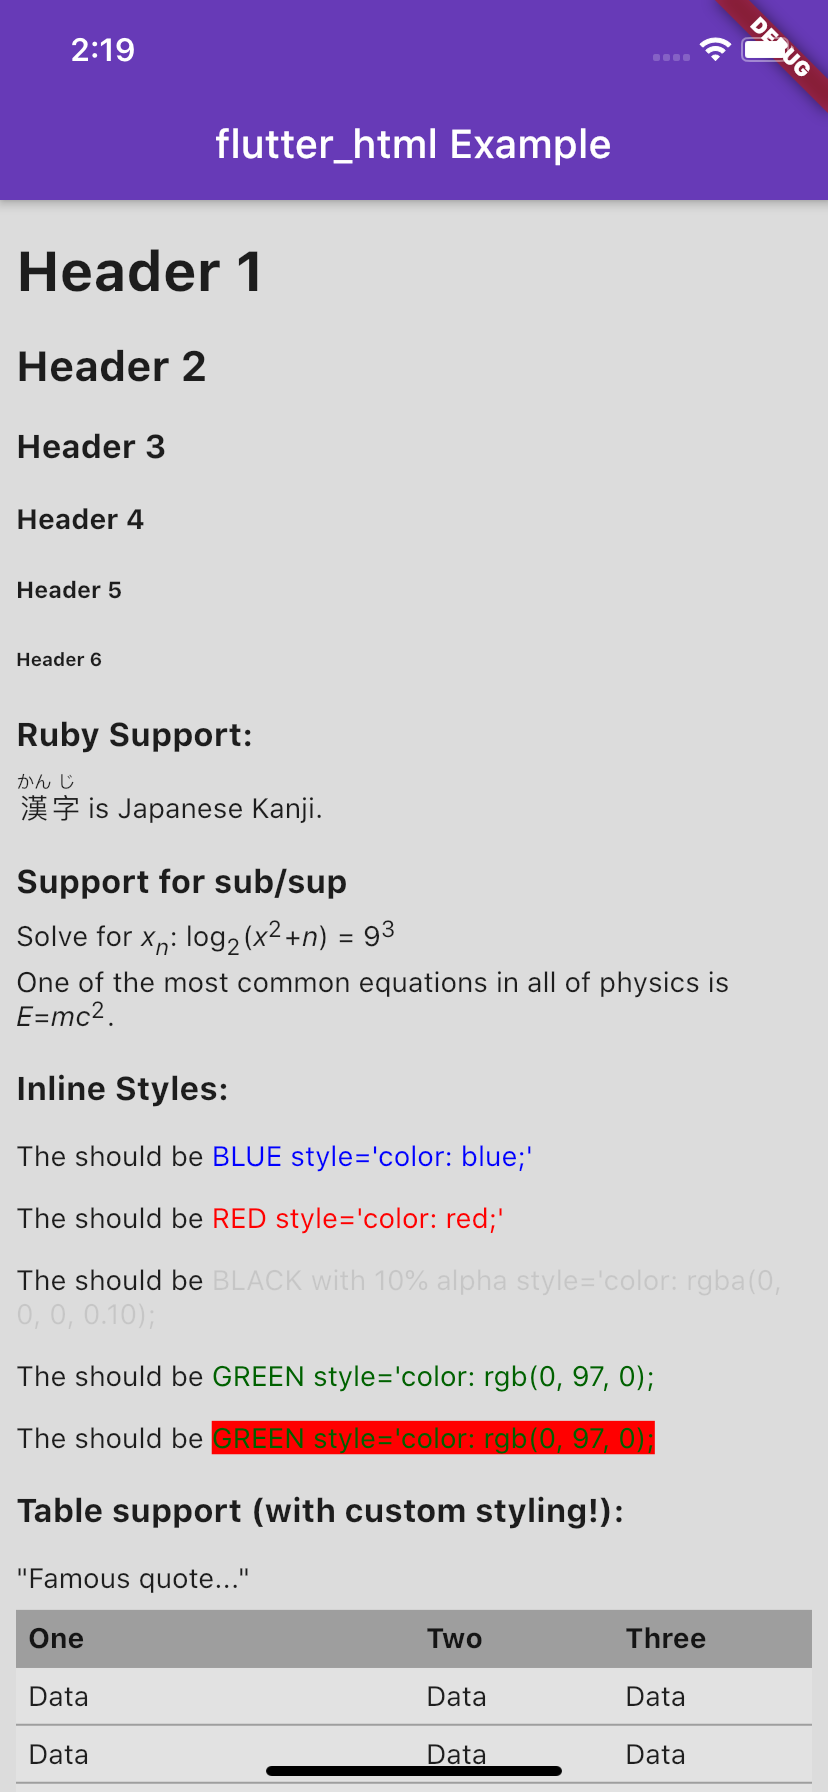
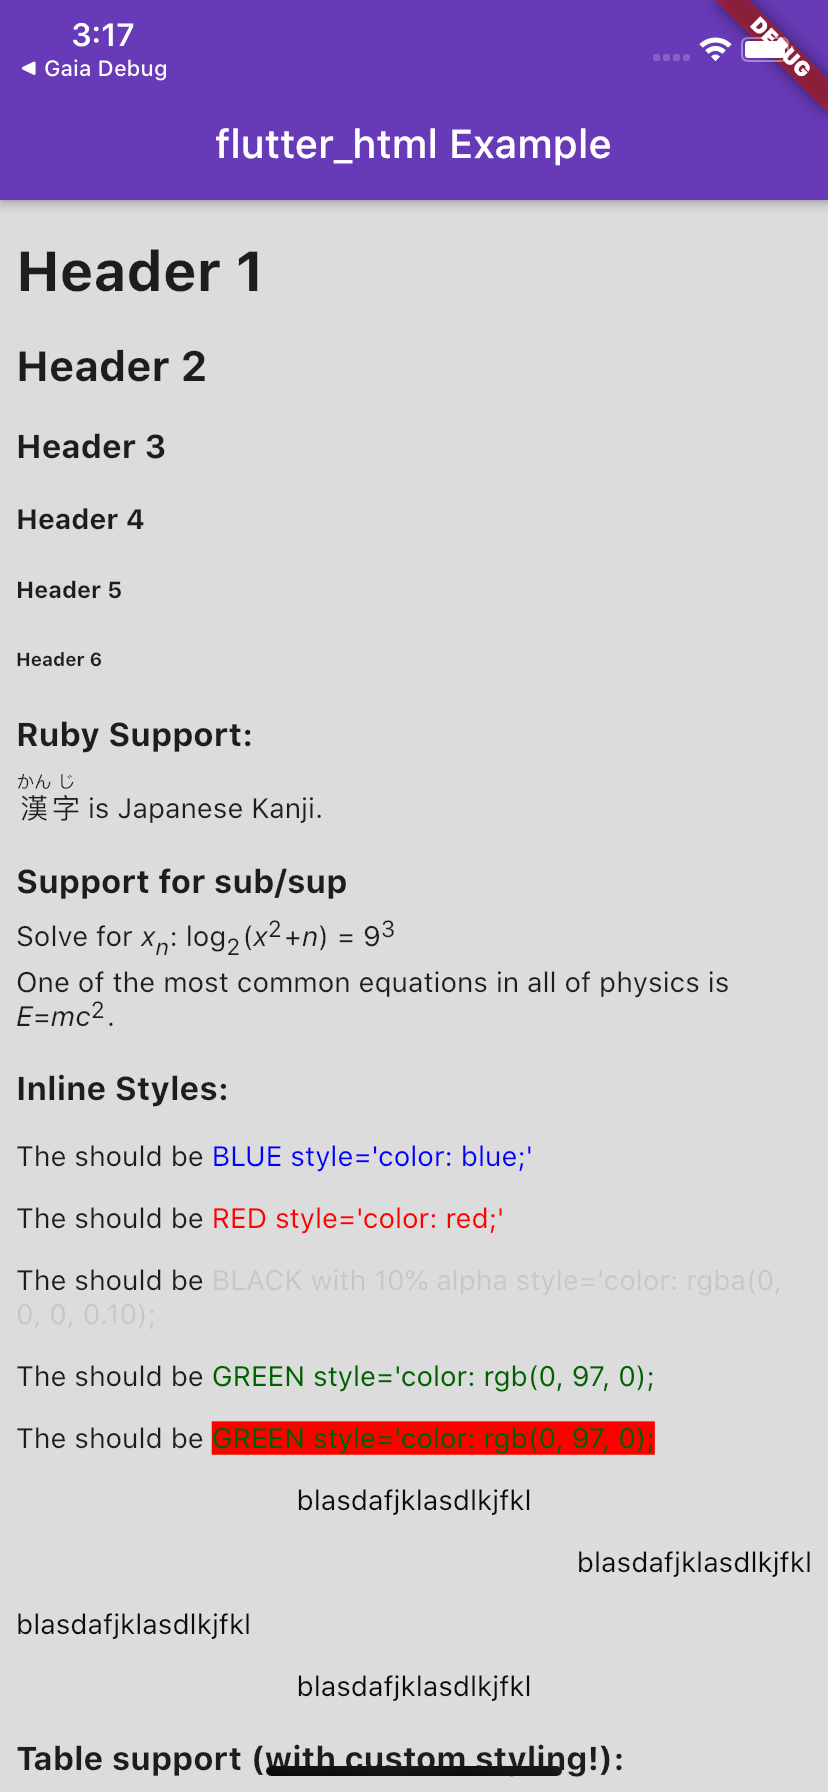
#19: Added the text-align support for inlinestyles

Changed region(s): [[0.0, 0.8125, 0.9964, 1.0], [0.0302, 0.0, 0.2114, 0.0625]]

diff --git a/lib/src/css_parser.dart b/lib/src/css_parser.dart
@@ -15,6 +15,10 @@ Style declarationsToStyle(Map<String, List<css.Expression>> declarations) {
       case 'color':
         style.color = ExpressionMapping.expressionToColor(value.first);
         break;
+      case 'text-align':
+        style.textAlign = ExpressionMapping.expressionToTextAlign(value.first);
+        break;
+
     }
   });
   return style;
@@ -104,5 +108,25 @@ class ExpressionMapping {
     } catch (e) {
       return null;
     }
+  }
+
+  static TextAlign expressionToTextAlign(css.Expression value) {
+    if (value is css.LiteralTerm) {
+      switch(value.text) {
+        case "center":
+          return TextAlign.center;
+        case "left":
+          return TextAlign.left;
+        case "right":
+          return TextAlign.right;
+        case "justify":
+          return TextAlign.justify;
+        case "end":
+          return TextAlign.end;
+        case "start":
+          return TextAlign.start;
+      }
+    }
+    return TextAlign.start;
   }
 }

diff --git a/example/lib/main.dart b/example/lib/main.dart
@@ -52,6 +52,10 @@ const htmlData = """
       <p>The should be <span style='color: rgba(0, 0, 0, 0.10);'>BLACK with 10% alpha style='color: rgba(0, 0, 0, 0.10);</span></p>
       <p>The should be <span style='color: rgb(0, 97, 0);'>GREEN style='color: rgb(0, 97, 0);</span></p>
       <p>The should be <span style='background-color: red; color: rgb(0, 97, 0);'>GREEN style='color: rgb(0, 97, 0);</span></p>
+      <p style="text-align: center;"><span style="color: rgba(0, 0, 0, 0.95);">blasdafjklasdlkjfkl</span></p>
+      <p style="text-align: right;"><span style="color: rgba(0, 0, 0, 0.95);">blasdafjklasdlkjfkl</span></p>
+      <p style="text-align: justify;"><span style="color: rgba(0, 0, 0, 0.95);">blasdafjklasdlkjfkl</span></p>
+      <p style="text-align: center;"><span style="color: rgba(0, 0, 0, 0.95);">blasdafjklasdlkjfkl</span></p>
       <h3>Table support (with custom styling!):</h3>
       <p>
       <q>Famous quote...</q>

diff --git a/test/test_data.dart b/test/test_data.dart
@@ -49,6 +49,12 @@ const testData = <String, String>{
   'nav': '<nav>Hello, World!</nav>',
   'noscript': '<noscript>Hello, World!</noscript>',
   'p': '<p>Hello, World!</p>',
+  'p-with-inline-css-text-align-center': '<p style="text-align: center;">Hello, World!</p>',
+  'p-with-inline-css-text-align-right': '<p style="text-align: right;">Hello, World!</p>',
+  'p-with-inline-css-text-align-left': '<p style="text-align: left;">Hello, World!</p>',
+  'p-with-inline-css-text-align-justify': '<p style="text-align: justify;">Hello, World!</p>',
+  'p-with-inline-css-text-align-end': '<p style="text-align: end;">Hello, World!</p>',
+  'p-with-inline-css-text-align-start': '<p style="text-align: start;">Hello, World!</p>',
   'pre': '<pre>Hello, World!</pre>',
   'q': '<q>Hello, World!</q>',
   'rp': '<ruby>漢 <rp> ㄏㄢˋ </rp></ruby>',
